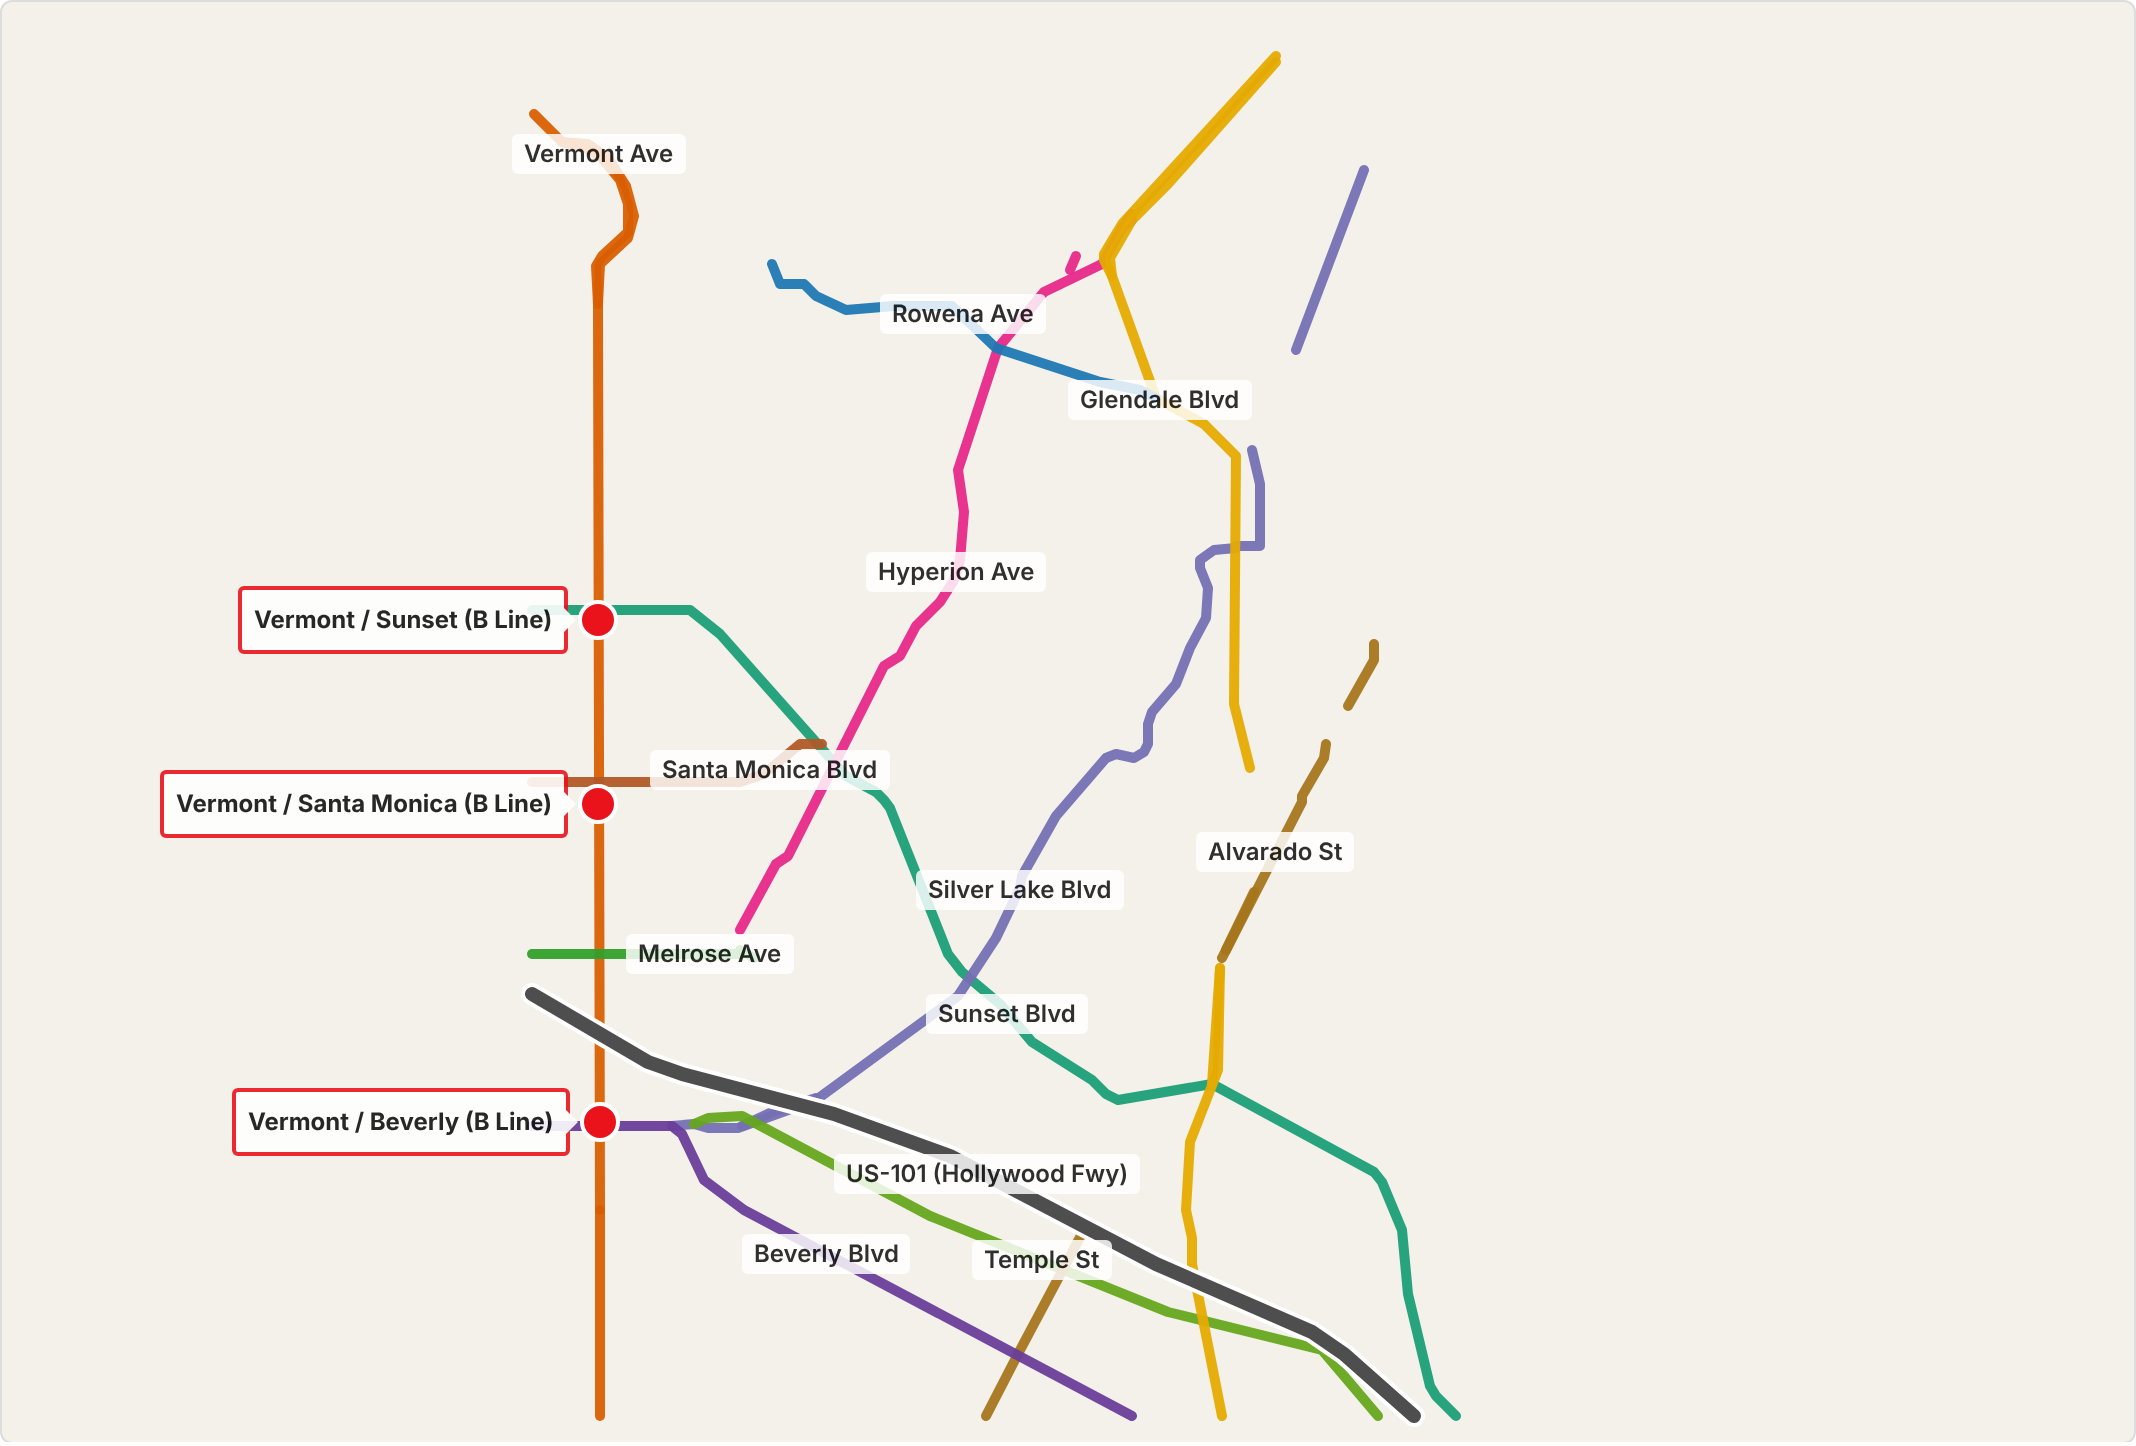
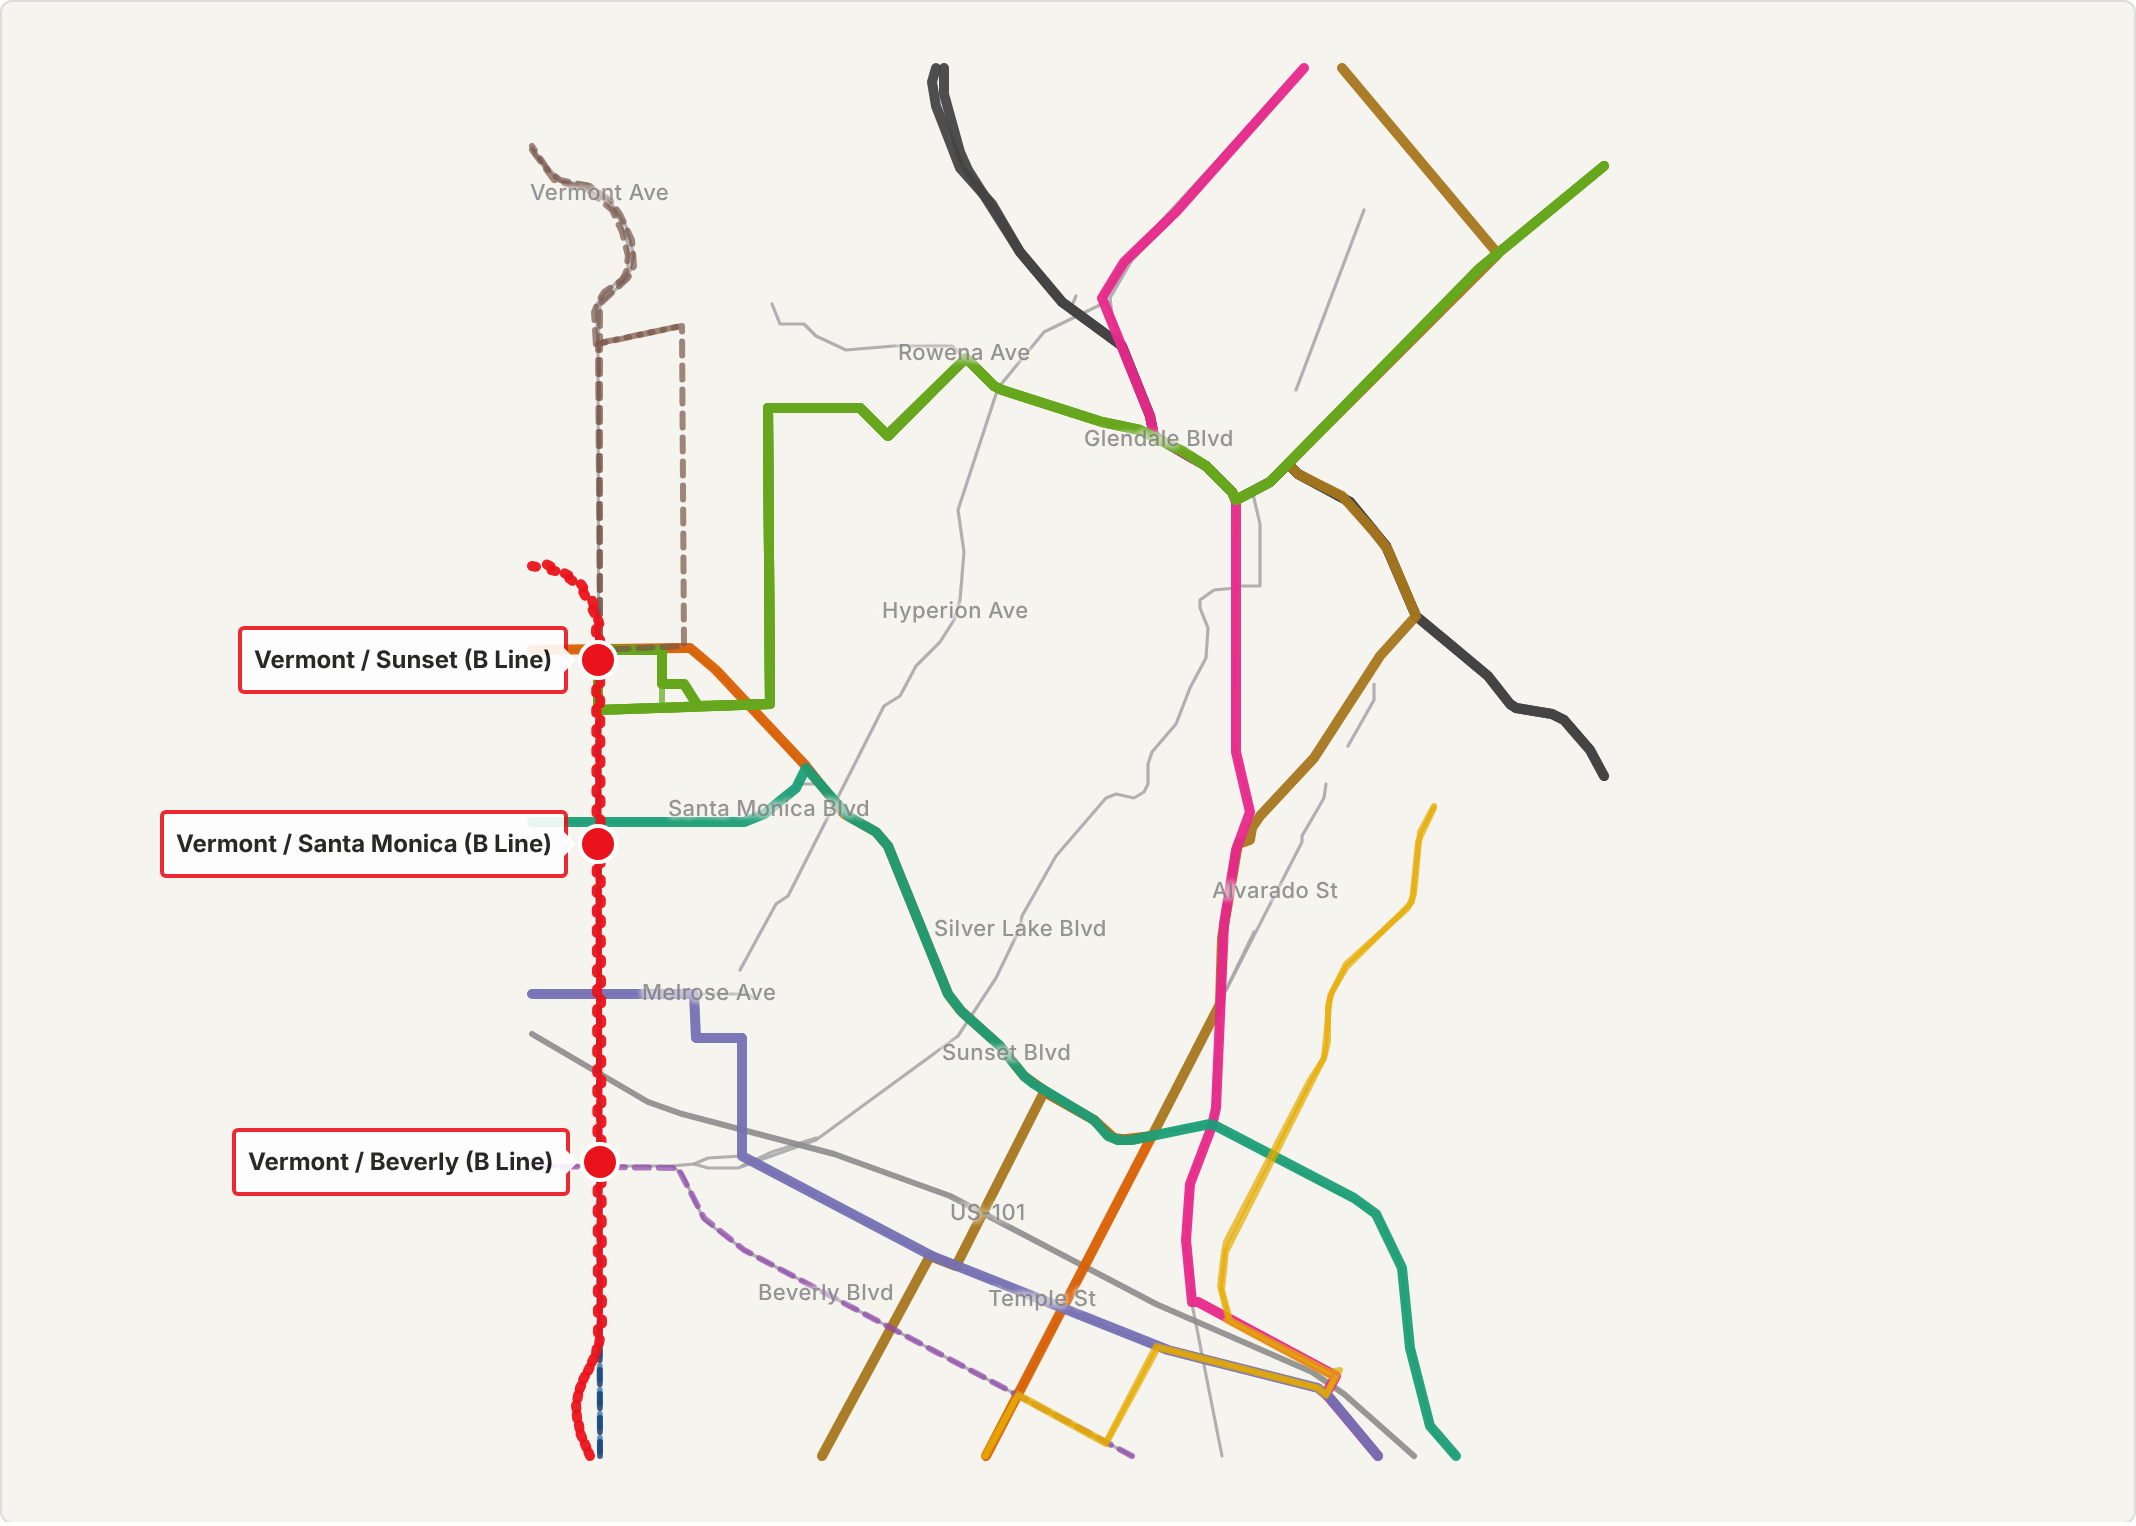
Streets example page: all transit lines over thin gray reference streets
Keeps the original dashboard and transit pages unchanged.

Claude-Session: https://claude.ai/code/session_01EVmfX9B967iPyoJqj2x3jH

diff --git a/site/streets/index.html b/site/streets/index.html
@@ -1,60 +1,71 @@
 <!doctype html>
 <html lang="en"><head><meta charset="utf-8"><meta name="viewport" content="width=device-width,initial-scale=1">
-<title>Silver Lake Key Streets</title>
+<title>Silver Lake Transit Over Key Streets</title>
 <link rel="stylesheet" href="https://cdnjs.cloudflare.com/ajax/libs/leaflet/1.9.4/leaflet.min.css">
 <style>
-:root{--bg:#fff;--fg:#1a1a1a;--mut:#666;--line:#ddd;--acc:#0b6bcb;--canvas:#f4f1ea;--lbl:rgba(255,255,255,.92)}
-@media(prefers-color-scheme:dark){:root{--bg:#161616;--fg:#eee;--mut:#9a9a9a;--line:#333;--acc:#6db3ff;--canvas:#1f1f1d;--lbl:rgba(30,30,30,.92)}}
+:root{--bg:#fff;--fg:#1a1a1a;--mut:#666;--line:#ddd;--acc:#0b6bcb;--canvas:#f6f4ee;--lbl:#8a8a8a;--st:#a9a9a9;--fwy:#8c8c8c;--halo:rgba(246,244,238,.9)}
+@media(prefers-color-scheme:dark){:root{--bg:#161616;--fg:#eee;--mut:#9a9a9a;--line:#333;--acc:#6db3ff;--canvas:#1f1f1d;--lbl:#8f8f8f;--st:#5c5c58;--fwy:#77776f;--halo:rgba(31,31,29,.9)}}
 body{margin:0;background:var(--bg);color:var(--fg);font:15px/1.4 system-ui,sans-serif}
 main{max-width:1100px;margin:0 auto;padding:16px}
 h1{font-size:1.4rem;margin:0 0 4px}.sub{color:var(--mut);margin:0 0 12px}a{color:var(--acc)}
-#map{height:720px;border:1px solid var(--line);border-radius:6px;margin:12px 0;background:var(--canvas)}
+#map{height:760px;border:1px solid var(--line);border-radius:6px;margin:12px 0;background:var(--canvas)}
 @media(max-width:700px){#map{height:75vh}}
 .legend{display:flex;flex-wrap:wrap;gap:8px 16px;margin:8px 0}
 .legend label{display:flex;align-items:center;gap:6px;cursor:pointer}
 .sw{display:inline-block;width:26px;height:6px;border-radius:3px}
-.lbl{background:var(--lbl);color:var(--fg);border:0;font-weight:600;box-shadow:none;padding:1px 6px}
+.slbl{background:none;border:0;box-shadow:none;color:var(--lbl);font-size:11px;font-weight:500;letter-spacing:.2px;padding:0;text-shadow:0 0 3px var(--halo),0 0 3px var(--halo),0 0 3px var(--halo)}
+.slbl:before{display:none}
 .stn{background:#fff;color:#111;border:2px solid #eb131b;font-weight:700;box-shadow:none}
 </style></head><body><main>
-<p class="sub"><a href="../">&larr; 311 dashboard</a> · <a href="../transit/">Transit map</a></p>
-<h1>Silver Lake key streets</h1>
+<p class="sub"><a href="../">&larr; 311 dashboard</a> · <a href="../transit/">Full transit page</a></p>
+<h1>Silver Lake transit over key streets <span class="sub">(example)</span></h1>
 <p class="sub" id="meta">Loading…</p>
 <div class="legend" id="legend"></div>
 <div id="map"></div>
-<p class="sub">Streets: <a href="https://caltrans-gis.dot.ca.gov/arcgis/rest/services/CHhighway/All_Roads">Caltrans All Roads</a> public road network. Train stops: LA Metro B Line (GTFS). Basemap, when turned on: &copy; <a href="https://www.openstreetmap.org/copyright">OpenStreetMap</a> contributors. The NC outline is approximate (derived from 311 case locations). <a href="silver-lake-streets.png">Download as PNG</a>.</p>
+<p class="sub">A lighter companion to the <a href="../transit/">full transit map</a>: the transit lines are the point, and only twelve streets (Vermont, Sunset, Silver Lake Blvd, Hyperion, Temple, Glendale, Alvarado, Rowena, Santa Monica, Beverly, Melrose, US-101) are drawn as thin gray lines for orientation. Bus stops are left off; B Line stops are shown. Dotted lines are the B Line; dashed lines are nearby routes outside the NC. Streets: <a href="https://caltrans-gis.dot.ca.gov/arcgis/rest/services/CHhighway/All_Roads">Caltrans All Roads</a>. Transit: LA Metro and LADOT GTFS. Basemap, when on: &copy; <a href="https://www.openstreetmap.org/copyright">OpenStreetMap</a> contributors. NC outline is approximate. <a href="silver-lake-streets.png">Download as PNG</a>.</p>
 <script src="https://cdnjs.cloudflare.com/ajax/libs/leaflet/1.9.4/leaflet.min.js"></script>
 <script>
 const $=id=>document.getElementById(id);
 const esc=s=>String(s??"").replace(/[&<>"]/g,c=>({"&":"&amp;","<":"&lt;",">":"&gt;",'"':"&quot;"}[c]));
-const PAL=["#d95f02","#1b9e77","#7570b3","#e7298a","#66a61e","#e6ab02","#a6761d","#1f78b4","#b15928","#6a3d9a","#33a02c","#444444"];
-const map=L.map("map",{zoomSnap:0.25,zoomControl:true});
-const tiles=L.tileLayer("https://tile.openstreetmap.org/{z}/{x}/{y}.png",{maxZoom:19,attribution:"© OpenStreetMap contributors",opacity:.55});
-fetch("data/streets.json").then(r=>r.json()).then(d=>{
-  const names=Object.keys(d.streets),groups={};
-  $("meta").textContent=`${names.length} streets and the B Line train stops. Toggle streets in the legend.`;
-  map.fitBounds([[d.view[1],d.view[0]],[d.view[3],d.view[2]]],{padding:[10,10]});
-  names.forEach((n,i)=>{
-    const g=L.layerGroup().addTo(map),col=PAL[i%PAL.length],fwy=/101/.test(n);groups[n]=g;
-    d.streets[n].forEach(c=>{
-      const ll=c.map(p=>[p[1],p[0]]);
-      if(fwy)L.polyline(ll,{color:"#fff",weight:11,opacity:1,lineCap:"round"}).addTo(g);
-      L.polyline(ll,{color:col,weight:fwy?7:5,opacity:.95,lineCap:"round",lineJoin:"round"}).bindTooltip(n).addTo(g);
-    });
-    const m=d.labels[n];
-    if(m)L.circleMarker([m[1],m[0]],{radius:0.5,opacity:0,fillOpacity:0,interactive:false}).addTo(g).bindTooltip(n,{permanent:true,direction:"center",className:"lbl"});
+const NAMES={"2":"Bus 2 · Sunset / Alvarado","4":"Bus 4 · Santa Monica Blvd","10":"Bus 10/48 · Melrose","92":"Bus 92 · Glendale Blvd","93":"Bus 93 · Glendale–Hoover","182":"Bus 182 · Figueroa–York","296":"Bus 296 · Griffith Park","DASH":"DASH Pico Union/Echo Park","14":"Bus 14/37 · Beverly (nearby)","204":"Bus 204 · Vermont local (nearby)","754":"Bus 754 · Vermont rapid (nearby)","DASH-LF":"DASH Observatory/Los Feliz (nearby)","B":"B Line (subway)"};
+const ORDER=["2","4","10","92","93","182","296","DASH","14","204","754","DASH-LF","B"];
+const NEARBY=new Set(["14","204","754","DASH-LF"]);
+const map=L.map("map",{zoomSnap:0.25});
+map.createPane("ref").style.zIndex=380;      // streets sit under the transit lines
+const tiles=L.tileLayer("https://tile.openstreetmap.org/{z}/{x}/{y}.png",{maxZoom:19,attribution:"© OpenStreetMap contributors",opacity:.45});
+Promise.all([fetch("data/streets.json").then(r=>r.json()),fetch("../transit/data/transit.json").then(r=>r.json())]).then(([S,T])=>{
+  map.fitBounds([[T.view[1],T.view[0]],[T.view[3],T.view[2]]],{padding:[10,10]});
+  const groups={};
+  // reference streets: thin, gray, labeled in small type
+  const ref=L.layerGroup().addTo(map);groups.__ref=ref;
+  const css=n=>getComputedStyle(document.documentElement).getPropertyValue(n).trim();
+  Object.entries(S.streets).forEach(([n,lines])=>{
+    const fwy=/101/.test(n);
+    lines.forEach(c=>L.polyline(c.map(p=>[p[1],p[0]]),{pane:"ref",color:css(fwy?"--fwy":"--st"),weight:fwy?3:1.6,opacity:.9,lineCap:"round",lineJoin:"round",interactive:false}).addTo(ref));
+    const m=S.labels[n];
+    if(m)L.circleMarker([m[1],m[0]],{pane:"ref",radius:0.5,opacity:0,fillOpacity:0,interactive:false}).addTo(ref)
+      .bindTooltip(n.replace(/ \(.*\)/,""),{permanent:true,direction:"center",className:"slbl"});
   });
-  const st=L.layerGroup().addTo(map);groups["__stn"]=st;
-  d.stations.forEach(s=>{
-    L.circleMarker([s.lat,s.lon],{radius:9,color:"#fff",weight:2,fillColor:"#eb131b",fillOpacity:1}).addTo(st)
+  // transit lines: the point of the map
+  ORDER.forEach(r=>groups[r]=L.layerGroup().addTo(map));
+  T.lines.forEach(l=>{
+    L.polyline(l.coords.map(c=>[c[1],c[0]]),{color:T.colors[l.route],weight:l.route==="B"?5:(l.in_nc?5:3),opacity:l.in_nc||l.route==="B"?.95:.7,
+      dashArray:l.route==="B"?"2 8":(NEARBY.has(l.route)?"7 5":null),lineCap:"round"}).bindTooltip(NAMES[l.route]||l.route).addTo(groups[l.route]);
+  });
+  // train stops only (no bus stops)
+  T.stops.filter(s=>s.mode==="rail").forEach(s=>{
+    L.circleMarker([s.lat,s.lon],{radius:9,color:"#fff",weight:2,fillColor:"#eb131b",fillOpacity:1}).addTo(groups.B)
       .bindTooltip(s.name.replace(/ Station.*/,"")+" (B Line)",{permanent:true,direction:"left",offset:[-9,0],className:"stn"});
   });
-  const nc=L.geoJSON(d.boundary,{style:{color:"#0b6bcb",weight:3,dashArray:"6 4",fillOpacity:.04}}).bindTooltip("Silver Lake NC (approximate)");
-  groups["__nc"]=nc;groups["__osm"]=tiles;
+  groups.__nc=L.geoJSON(T.boundary,{style:{color:"#0b6bcb",weight:3,dashArray:"6 4",fillOpacity:.04}}).bindTooltip("Silver Lake NC (approximate)");
+  groups.__osm=tiles;
+  const dashed='repeating-linear-gradient(90deg,#0b6bcb 0 6px,transparent 6px 10px)';
+  $("meta").textContent=`${ORDER.length-1} bus routes plus the B Line, over ${Object.keys(S.streets).length} reference streets. Toggle anything in the legend.`;
   $("legend").innerHTML=
+    `<label><input type="checkbox" data-r="__ref" checked><span class="sw" style="background:#a9a9a9;height:3px"></span>Reference streets</label>`+
     `<label><input type="checkbox" data-r="__osm"><span class="sw" style="background:#aab"></span>OpenStreetMap basemap</label>`+
-    `<label><input type="checkbox" data-r="__nc"><span class="sw" style="background:repeating-linear-gradient(90deg,#0b6bcb 0 6px,transparent 6px 10px)"></span>NC outline (approximate)</label>`+
-    `<label><input type="checkbox" data-r="__stn" checked><span class="sw" style="background:#eb131b"></span>B Line stops</label>`+
-    names.map((n,i)=>`<label><input type="checkbox" data-r="${esc(n)}" checked><span class="sw" style="background:${PAL[i%PAL.length]}"></span>${esc(n)}</label>`).join("");
+    `<label><input type="checkbox" data-r="__nc"><span class="sw" style="background:${dashed}"></span>NC outline (approximate)</label>`+
+    ORDER.map(r=>`<label><input type="checkbox" data-r="${r}" checked><span class="sw" style="background:${T.colors[r]}"></span>${esc(NAMES[r])}</label>`).join("");
   $("legend").addEventListener("change",e=>{const g=groups[e.target.dataset.r];if(!g)return;e.target.checked?g.addTo(map):map.removeLayer(g)});
   window.__ready=true;
 }).catch(e=>$("meta").textContent="Failed to load data: "+e);

diff --git a/site/transit/index.html b/site/transit/index.html
@@ -22,7 +22,7 @@ th.n,td.n{text-align:right;font-variant-numeric:tabular-nums;white-space:nowrap}
 .endlbl{font-weight:700;font-size:12px;color:#111;text-shadow:0 0 3px #fff,0 0 3px #fff;white-space:nowrap}
 .chip{display:inline-block;padding:1px 7px;border-radius:10px;color:#fff;font-size:.85em;margin-right:4px}
 </style></head><body><main>
-<p class="sub"><a href="../">&larr; 311 dashboard</a> · <a href="../streets/">Key streets map</a></p>
+<p class="sub"><a href="../">&larr; 311 dashboard</a> · <a href="../streets/">Transit over key streets (example)</a></p>
 <h1>Transit through Silver Lake NC</h1>
 <p class="sub" id="meta">Loading…</p>
 <div class="legend" id="legend"></div>

diff --git a/site/index.html b/site/index.html
@@ -20,7 +20,7 @@ td.n{text-align:right;font-variant-numeric:tabular-nums}
 </style></head><body><main>
 <h1>Silver Lake Neighborhood Council — 311 Requests</h1>
 <p class="sub" id="meta">Loading…</p>
-<p class="sub"><a href="streets/">Key streets map (Vermont, Sunset, Hyperion, 101 and more) &rarr;</a></p>
+<p class="sub"><a href="streets/">Transit over key streets (lighter example map) &rarr;</a></p>
 <p class="sub"><a href="transit/">Transit map: bus 2, 4, 10, 92, 93, 182, 296, Echo Park DASH, nearby routes and the B Line &rarr;</a></p>
 <div class="bar">
  <label><input type="checkbox" id="transpo" checked> Transportation-related only</label>
